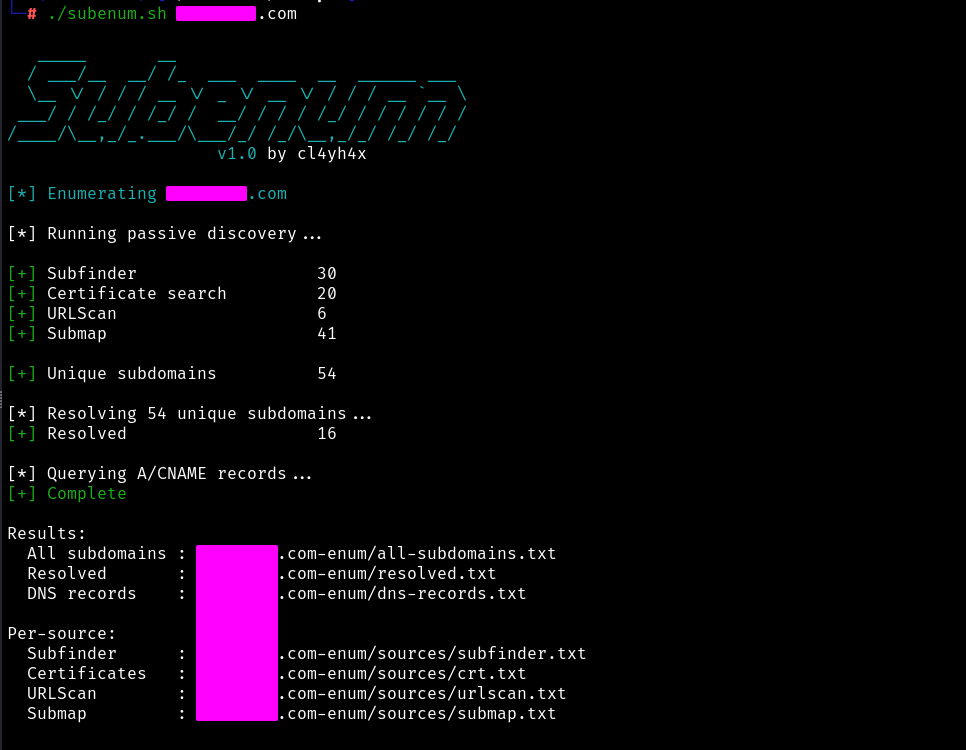
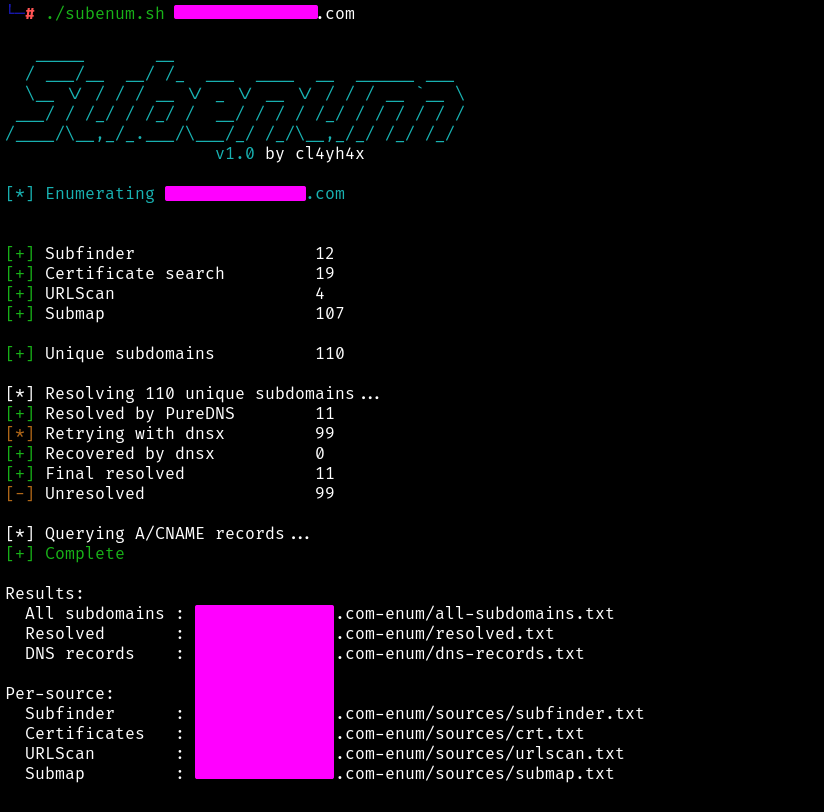
Improve DNS resolution with wildcard-aware dnsx fallback

diff --git a/README.md b/README.md
@@ -1,6 +1,6 @@
 # subenum
 
-`subenum` is a Bash-based subdomain enumeration utility that combines multiple passive discovery sources, normalizes and deduplicates the results, resolves discovered subdomains, and collects A and CNAME DNS records.
+`subenum` is a Bash-based subdomain enumeration utility that combines multiple passive discovery sources, normalizes and deduplicates the results, performs wildcard-aware DNS resolution and validation, and collects A and CNAME DNS records.
 
 ## Features
 
@@ -11,7 +11,8 @@
   - Submap
 - Per-source normalization and deduplication
 - Global deduplication before DNS resolution
-- DNS resolution with PureDNS
+- Primary DNS resolution with PureDNS
+- Wildcard-aware retry of unresolved names with dnsx
 - A and CNAME record collection with dnsx
 - Per-source result files
 - Custom resolver support
@@ -25,6 +26,17 @@ The following tools must be installed and available in `$PATH`:
 - `dnsx`
 - `curl`
 - `jq`
+- `sort`
+- `grep`
+- `sed`
+- `tr`
+- `wc`
+- `comm`
+
+`dnsx` must support the `-auto-wildcard` option. 
+```text
+dnsx -h | grep -i -A4 -B4 wildcard
+```
 
 A resolver file is also required. The default path is:
 
@@ -74,18 +86,30 @@ Submap ────────┘
                          │
                          ▼
                       PureDNS
+                     /       \
+                    /         \
+             resolved       unresolved
+                 │               │
+                 │               ▼
+                 │        dnsx wildcard-aware
+                 │              retry
+                 │               │
+                 └───────┬───────┘
                          │
                          ▼
-                     resolved.txt
+                   resolved.txt
                          │
                          ▼
                        dnsx
+                  A/CNAME records
                          │
                          ▼
                   dns-records.txt
 ```
 
 DNS resolution occurs only after all passive discovery sources have completed and the combined results have been deduplicated.
+
+PureDNS performs the primary resolution pass. Names that are not resolved during the initial pass are retried with dnsx using automatic wildcard filtering. Successfully recovered names are merged with the PureDNS results and deduplicated before A and CNAME records are collected.
 
 ## Output
 
@@ -105,8 +129,8 @@ example.com-enum/
 
 ### Result files
 
-- `all-subdomains.txt` — all unique subdomains discovered across every source.
-- `resolved.txt` — discovered subdomains that successfully resolve.
+- `all-subdomains.txt` — all unique passive discoveries, including names that may not currently resolve.
+- `resolved.txt` — discovered subdomains confirmed through the PureDNS primary pass or wildcard-aware dnsx retry.
 - `dns-records.txt` — A and CNAME information collected by dnsx.
 - `sources/` — normalized and deduplicated results from each individual discovery source.
 
